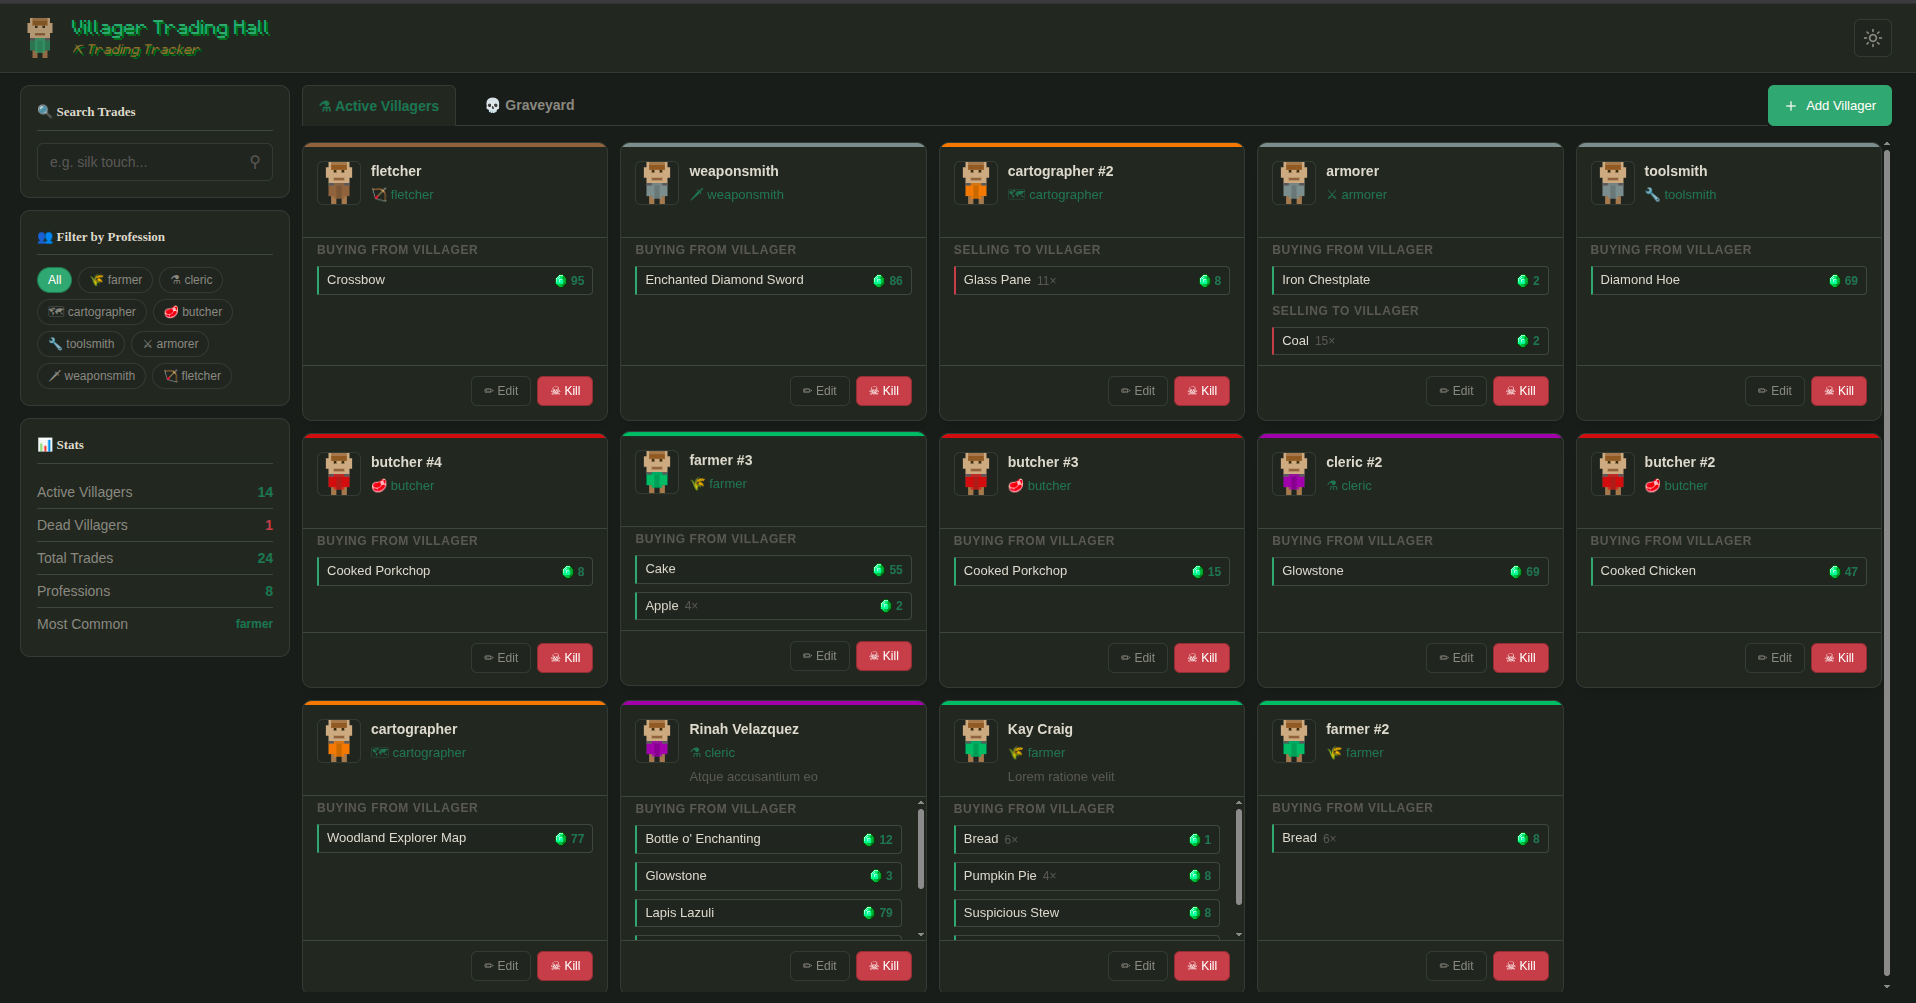
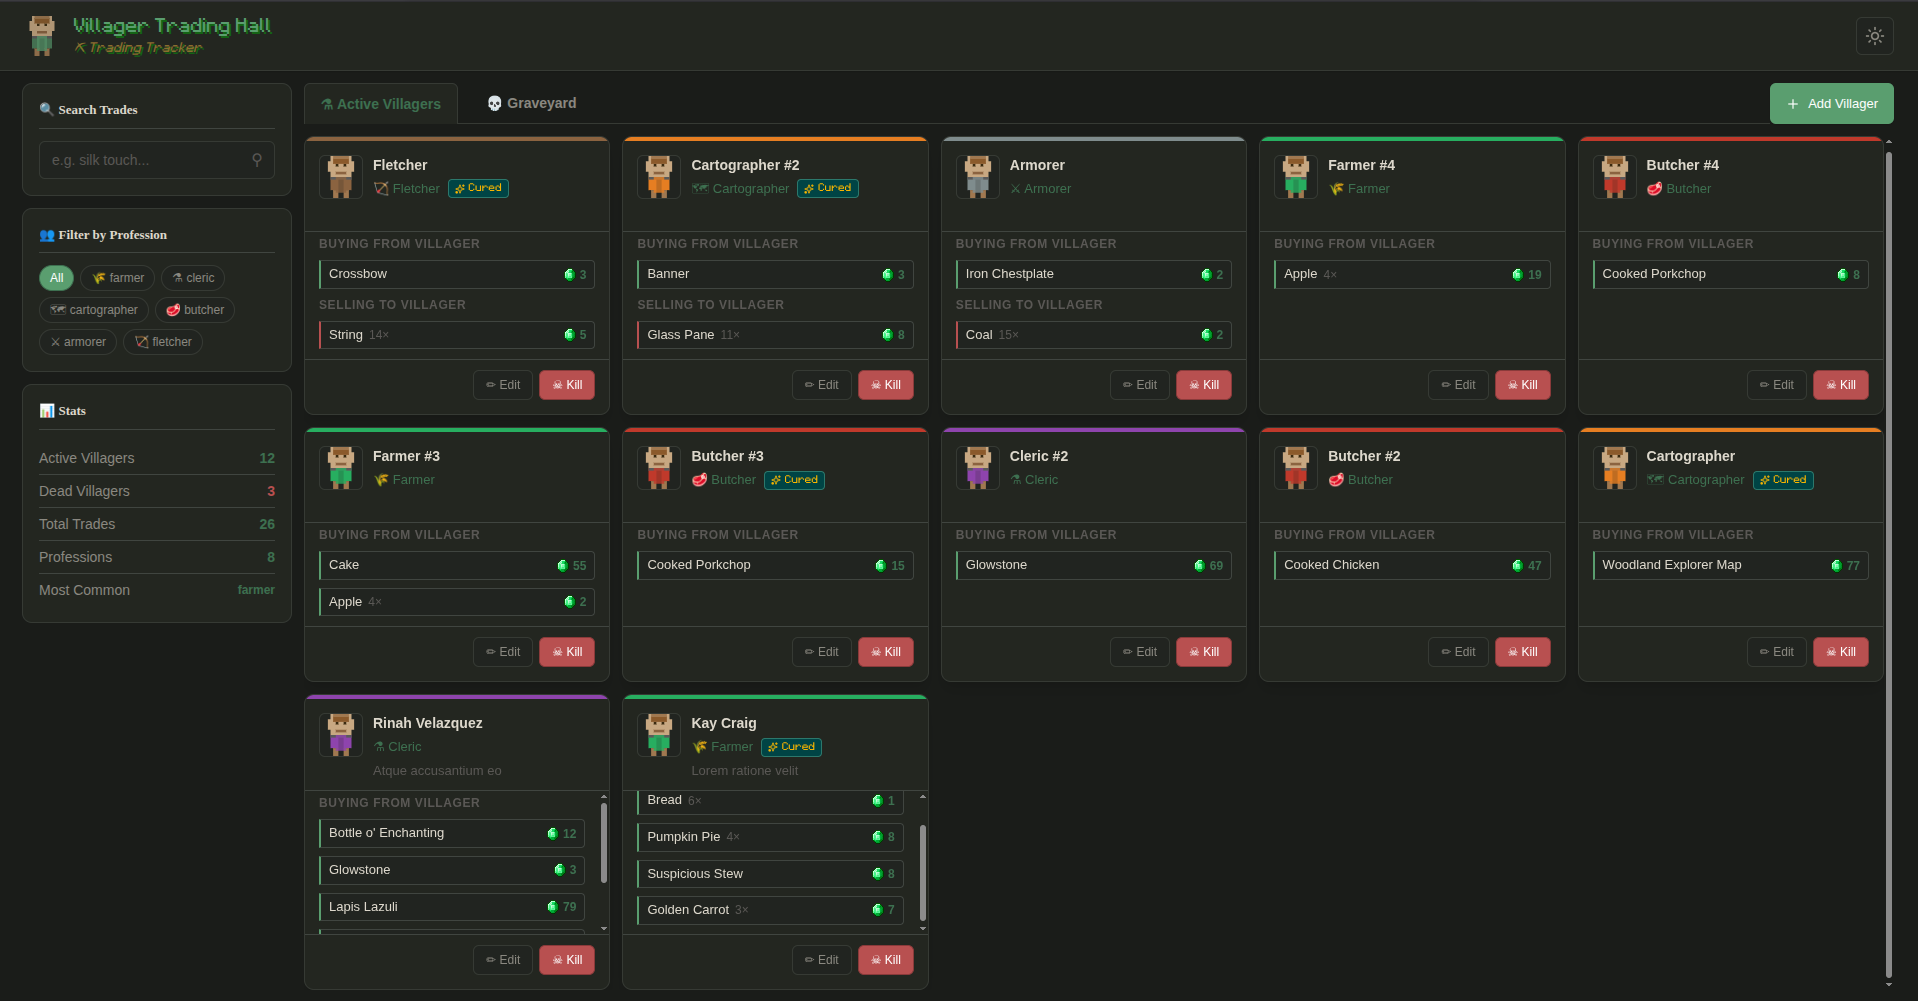
feat: add isCured field to villager model and UI
Added isCured boolean to villager type, world store, and create/edit
modal. Includes custom amber checkbox styling in index.css and a
reusable CuredBadge component with inline and floating variants.

fix: rehydrate zustand store after manual localStorage update
After saving data via ManageDataModal, call persist.rehydrate() so
the store syncs with the new localStorage state without a page reload.
Also moved JSON validation before the confirm modal opens so error
messages are visible to the user.

diff --git a/src/pages/select-world/components/manage-data-modal.tsx b/src/pages/select-world/components/manage-data-modal.tsx
@@ -1,6 +1,6 @@
 import { MinecraftButton, WorldModalWrapper } from "@/components/ui";
 import { LOCAL_STORAGE_KEYS } from "@/constants";
-import { useModalStore, useNotificationStore } from "@/store";
+import { useModalStore, useNotificationStore, useWorldStore } from "@/store";
 import { CopyIcon, EditIcon } from "lucide-react";
 import { useRef, useState } from "react";
 import type { ManageDataModalProps } from "./types";
@@ -11,10 +11,10 @@ export function ManageDataModal({
 }: ManageDataModalProps) {
   const data = localStorage.getItem(LOCAL_STORAGE_KEYS.WORLDS);
   const parsedData = data ? JSON.parse(data) : null;
-  const jsonString = JSON.stringify(parsedData, null, 2);
+  const jsonString = parsedData ? JSON.stringify(parsedData, null, 2) : "";
 
   const [textareaValue, setTextareaValue] = useState(
-    initialValue ?? jsonString ?? "No world data found.",
+    initialValue ?? jsonString ?? "",
   );
   const [isCopied, setIsCopied] = useState(false);
   const [isEditing, setIsEditing] = useState(initialEditing);
@@ -103,13 +103,21 @@ export function ManageDataModal({
 
   function handleSaving() {
     try {
-      const parsed = JSON.parse(textareaValue);
-      localStorage.setItem(LOCAL_STORAGE_KEYS.WORLDS, JSON.stringify(parsed));
+      if (!textareaValue) {
+        localStorage.setItem(
+          LOCAL_STORAGE_KEYS.WORLDS,
+          JSON.stringify({ state: { worlds: [] } }),
+        );
+      } else {
+        const parsed = JSON.parse(textareaValue);
+        localStorage.setItem(LOCAL_STORAGE_KEYS.WORLDS, JSON.stringify(parsed));
+      }
+
+      useWorldStore.persist.rehydrate();
       close();
       show("World data saved successfully!");
     } catch (err) {
       console.error("Error parsing JSON:", err);
-      showMessage("error", "Invalid JSON format.");
     }
   }
 
@@ -118,6 +126,14 @@ export function ManageDataModal({
       title="Manage World Data"
       onCancel={close}
       onSubmit={() => {
+        if (textareaValue) {
+          try {
+            JSON.parse(textareaValue);
+          } catch {
+            showMessage("error", "Invalid JSON format.");
+            return;
+          }
+        }
         open(
           <WorldModalWrapper
             title="Confirm Save"
@@ -132,7 +148,7 @@ export function ManageDataModal({
             onSubmit={handleSaving}
             label="Yes, Save"
           >
-            <span className="font-mojangles">Save Changes?</span>
+            <span>Save Changes?</span>
           </WorldModalWrapper>,
         );
       }}
@@ -151,8 +167,9 @@ export function ManageDataModal({
           onChange={handleFileChange}
         />
         <textarea
-          className="w-full h-48 p-2 bg-black/20 border border-gray-600 rounded resize-none text-sm font-mojangles min-scrollbar"
+          className="w-full h-48 p-2 bg-black/20 border border-gray-600 rounded resize-none text-sm min-scrollbar"
           value={textareaValue}
+          placeholder="Insert Data Here..."
           onChange={(e) => setTextareaValue(e.target.value)}
           readOnly={!isEditing}
           disabled={!isEditing}
@@ -189,7 +206,7 @@ export function ManageDataModal({
         {/* Message */}
         {message && (
           <div
-            className={`mt-4 p-2 rounded absolute z-10 -top-3 right-1/2 transform translate-x-1/2 text-center text-xs font-mojangles animate-fade-in bg-bg-3 border  ${
+            className={`mt-4 p-2 rounded absolute z-10 -top-3 right-1/2 transform translate-x-1/2 text-center text-xs animate-fade-in bg-bg-3 border  ${
               message.type === "success"
                 ? "border-emerald-dark text-emerald"
                 : " text-red border-red-dark"

diff --git a/src/index.css b/src/index.css
@@ -12,6 +12,9 @@
   --emerald-dark: #355a40;
   --emerald-light: #e8f2ec;
   --gold: #c0962a;
+  --cured-bg: #004445;
+  --cured-border: #2c786c;
+  --cured-text: #f8b400;
 
   --red: #9b4040;
   --red-dark: #7a3030;
@@ -59,6 +62,9 @@
   --color-content-dim: var(--content-dim);
   --color-content-muted: var(--content-muted);
   --color-mc: var(--mc);
+  --color-cured-bg: var(--cured-bg);
+  --color-cured-border: var(--cured-border);
+  --color-cured-text: var(--cured-text);
   --animate-fade-in: fadeIn 0.3s ease-out forwards;
   --radius-2.5: 10px;
   --text-13: 13px;
@@ -195,7 +201,7 @@
     @apply bg-panel border border-border rounded-[10px] p-4;
   }
   .panel-title {
-    @apply font-serif text-[13px] font-semibold text-content
+    @apply font-serif text-13 font-semibold text-content
            mb-3 pb-2 border-b border-border-light flex items-center gap-1.5;
   }
 
@@ -210,46 +216,6 @@
            font-sans text-sm px-3 py-2 outline-none transition-all duration-150
            focus:border-emerald focus:ring-2 focus:ring-emerald/15
            placeholder:text-content-muted;
-  }
-  .form-label {
-    @apply text-[11px] font-semibold text-content-dim uppercase tracking-wider;
-  }
-
-  .chip {
-    @apply font-sans text-xs font-medium px-2.5 py-1 rounded-full
-           border border-border bg-bg-2 text-content-dim cursor-pointer
-           transition-all duration-150
-           hover:border-emerald hover:text-emerald hover:bg-emerald-light;
-  }
-  .chip-active {
-    @apply bg-emerald border-emerald-dark text-white;
-  }
-
-  .filter-tag {
-    @apply inline-flex items-center gap-1.5 bg-panel border border-border
-           rounded-md px-2.5 py-1 text-xs text-content-dim;
-  }
-
-  .stat-row {
-    @apply flex justify-between items-center py-1.5
-           border-b border-border-light last:border-0 text-sm;
-  }
-
-  .trade-item {
-    @apply flex items-center justify-between gap-2 px-2 py-1.5
-           bg-bg-2 rounded-md border border-border-light text-sm;
-  }
-
-  .notification {
-    @apply fixed bottom-5 right-5 bg-panel border border-emerald rounded-lg
-           px-4 py-3 text-[13px] font-medium text-emerald-dark z-[300]
-           max-w-[280px] translate-x-full transition-transform duration-300;
-  }
-  .notification-show {
-    @apply translate-x-0;
-  }
-  .notification-error {
-    @apply border-red text-red;
   }
 
   .tilted-text {
@@ -284,5 +250,45 @@
       grid-template-columns: 1fr;
       max-height: calc(-145px + 100vh);
     }
+  }
+
+  /* Cured villager checkbox */
+  input[type="checkbox"]#isCured {
+    appearance: none;
+    -webkit-appearance: none;
+    width: 16px;
+    height: 16px;
+    border: 1px solid var(--color-border);
+    border-radius: 3px;
+    background-color: var(--color-bg-2);
+    cursor: pointer;
+    position: relative;
+    transition:
+      background-color 0.15s,
+      border-color 0.15s;
+    flex-shrink: 0;
+  }
+
+  input[type="checkbox"]#isCured:checked {
+    background-color: var(--color-cured-bg);
+    border-color: var(--color-cured-border);
+  }
+
+  input[type="checkbox"]#isCured:checked::after {
+    content: "";
+    position: absolute;
+    left: 4px;
+    top: 1px;
+    width: 5px;
+    height: 9px;
+    border: 2px solid var(--color-cured-text);
+    border-top: none;
+    border-left: none;
+    transform: rotate(45deg);
+  }
+
+  input[type="checkbox"]#isCured:focus-visible {
+    outline: 1px solid var(--color-cured-border);
+    outline-offset: 2px;
   }
 }

diff --git a/src/components/layout/content/components/villager-modal/villager-modal.tsx b/src/components/layout/content/components/villager-modal/villager-modal.tsx
@@ -15,6 +15,7 @@ export function VillagerModal({ world, villager, type }: VillagerModalProps) {
   const [customName, setCustomName] = useState(villager?.name || "");
   const [notes, setNotes] = useState(villager?.notes || "");
   const [trades, setTrades] = useState<Trade[]>(villager?.trades || []);
+  const [isCured, setIsCured] = useState(villager?.isCured || false);
 
   const { addVillager, updateVillager } = useWorldStore();
   const { close } = useModalStore();
@@ -24,6 +25,7 @@ export function VillagerModal({ world, villager, type }: VillagerModalProps) {
     setCustomName("");
     setNotes("");
     setTrades([]);
+    setIsCured(false);
   }
 
   function handleAddVillager() {
@@ -34,6 +36,7 @@ export function VillagerModal({ world, villager, type }: VillagerModalProps) {
       name: villagerName,
       notes,
       trades,
+      isCured,
     });
     close();
     show(`Villager "${villagerName.slice(0, 12)}" added successfully`);
@@ -114,6 +117,16 @@ export function VillagerModal({ world, villager, type }: VillagerModalProps) {
             placeholder="e.g. max level, near entrance..."
             value={notes}
             onChange={(e) => setNotes(limitNameLength(e.target.value))}
+          />
+        </div>
+        <div className="flex items-center gap-1.25">
+          <ModalLabel htmlFor="isCured">Cured (optional)</ModalLabel>
+          <input
+            type="checkbox"
+            name="isCured"
+            id="isCured"
+            checked={isCured}
+            onChange={(e) => setIsCured(e.target.checked)}
           />
         </div>
         <SelectTrades

diff --git a/src/components/layout/content/components/villager-card/villager-card.tsx b/src/components/layout/content/components/villager-card/villager-card.tsx
@@ -2,6 +2,7 @@ import { VillagerIcon } from "@/assets/icons";
 import { PROF_COLORS, PROF_EMOJI } from "@/constants";
 import type { VillagerCardProps } from "../types";
 import { TradeCard, VillagerCardBtns } from "./components";
+import { CuredBadge } from "./components/cured-badge";
 
 export function VillagerCard({ world, villager, search }: VillagerCardProps) {
   const buyTrades = villager.trades.filter((t) => t.type === "buy");
@@ -20,11 +21,14 @@ export function VillagerCard({ world, villager, search }: VillagerCardProps) {
           color={PROF_COLORS[villager.profession]}
         />
         <div className="flex-1 min-w-0">
-          <div className="text-sm font-semibold text-content wrap-break-word mb-1">
+          <div className="text-sm font-semibold text-content wrap-break-word mb-1 capitalize">
             {villager.name}
           </div>
-          <div className="text-13 text-emerald-dark">
-            {PROF_EMOJI[villager.profession]} {villager.profession}
+          <div className="flex items-center gap-2">
+            <span className="text-13 text-emerald-dark capitalize">
+              {PROF_EMOJI[villager.profession]} {villager.profession}
+            </span>{" "}
+            {villager.isCured && <CuredBadge />}
           </div>
           {villager.notes && (
             <div className="text-13 text-content-muted mt-1 line-clamp-2">

diff --git a/src/components/ui/world-modal-wrapper.tsx b/src/components/ui/world-modal-wrapper.tsx
@@ -12,7 +12,7 @@ export function WorldModalWrapper({
 }: WorldModalWrapperProps) {
   const { close } = useModalStore();
   return (
-    <div className="px-6 py-4 gap-4 flex flex-col bg-panel border-2 border-border max-w-md mx-auto">
+    <div className="dark px-6 py-4 gap-4 flex flex-col bg-panel border-2 border-border max-w-md mx-auto">
       <div className=" border-b border-border font-mojangles text-white flex items-center justify-between pb-4">
         <p className="text-lg">{title}</p>
         <button
@@ -22,7 +22,7 @@ export function WorldModalWrapper({
           <XIcon size={20} />
         </button>
       </div>
-      <div> {children}</div>
+      <div className=" text-content-dim font-mojangles"> {children}</div>
       <div className="flex gap-2">
         <MinecraftButton onClick={onCancel} label="Cancel" />
         <MinecraftButton label={label} onClick={onSubmit} />

diff --git a/src/components/layout/content/components/villager-card/components/cured-badge.tsx b/src/components/layout/content/components/villager-card/components/cured-badge.tsx
@@ -1,0 +1,20 @@
+import { Sparkles } from "lucide-react";
+import type { CuredBadgeProps } from "./types";
+import { cn } from "@/lib/utils";
+
+export function CuredBadge({ className = "" }: CuredBadgeProps) {
+  return (
+    <span
+      className={cn(
+        "inline-flex items-center gap-1",
+        "bg-cured-bg border border-cured-border",
+        "text-cured-text font-mojangles",
+        "text-[10px] px-1.5 py-px rounded-sm",
+        className,
+      )}
+    >
+      <Sparkles size={10} className="shrink-0" />
+      Cured
+    </span>
+  );
+}

diff --git a/src/components/layout/content/components/villager-modal/components/modal-label.tsx b/src/components/layout/content/components/villager-modal/components/modal-label.tsx
@@ -6,7 +6,7 @@ export function ModalLabel({ htmlFor, children, className }: ModalLabelProps) {
     <label
       htmlFor={htmlFor}
       className={cn(
-        "uppercase text-xs font-semibold text-content-dim tracking-wider w-fit",
+        "uppercase text-xs font-semibold text-content-dim tracking-wider w-fit cursor-pointer select-none",
         className,
       )}
     >

diff --git a/src/pages/select-world/components/delete-world-modal.tsx b/src/pages/select-world/components/delete-world-modal.tsx
@@ -21,7 +21,7 @@ export function DeleteWorldModal({
       onSubmit={handleDelete}
       label="Delete"
     >
-      <p className="font-mojangles">
+      <p>
         Are you sure you want to delete{" "}
         <span className="text-white">{selectedWorld?.name}</span>? This action
         cannot be undone.

diff --git a/src/store/worldStore.ts b/src/store/worldStore.ts
@@ -1,4 +1,3 @@
-// src/store/worldStore.ts
 import { LOCAL_STORAGE_KEYS } from "@/constants";
 import type { Villager, TradingHall, World, Trade, WorldStore } from "@/types";
 import { create } from "zustand";

diff --git a/src/types/villager.ts b/src/types/villager.ts
@@ -18,6 +18,7 @@ export interface Villager {
   killedAt?: number;
   trades: Trade[];
   createdAt: number;
+  isCured: boolean;
 }
 
 export type VillagerStatus = "alive" | "dead";

diff --git a/src/components/layout/content/components/villager-card/components/types.ts b/src/components/layout/content/components/villager-card/components/types.ts
@@ -10,3 +10,7 @@ export interface TradeCardProps {
   trade: Trade;
   search: string;
 }
+
+export interface CuredBadgeProps {
+  className?: string;
+}
